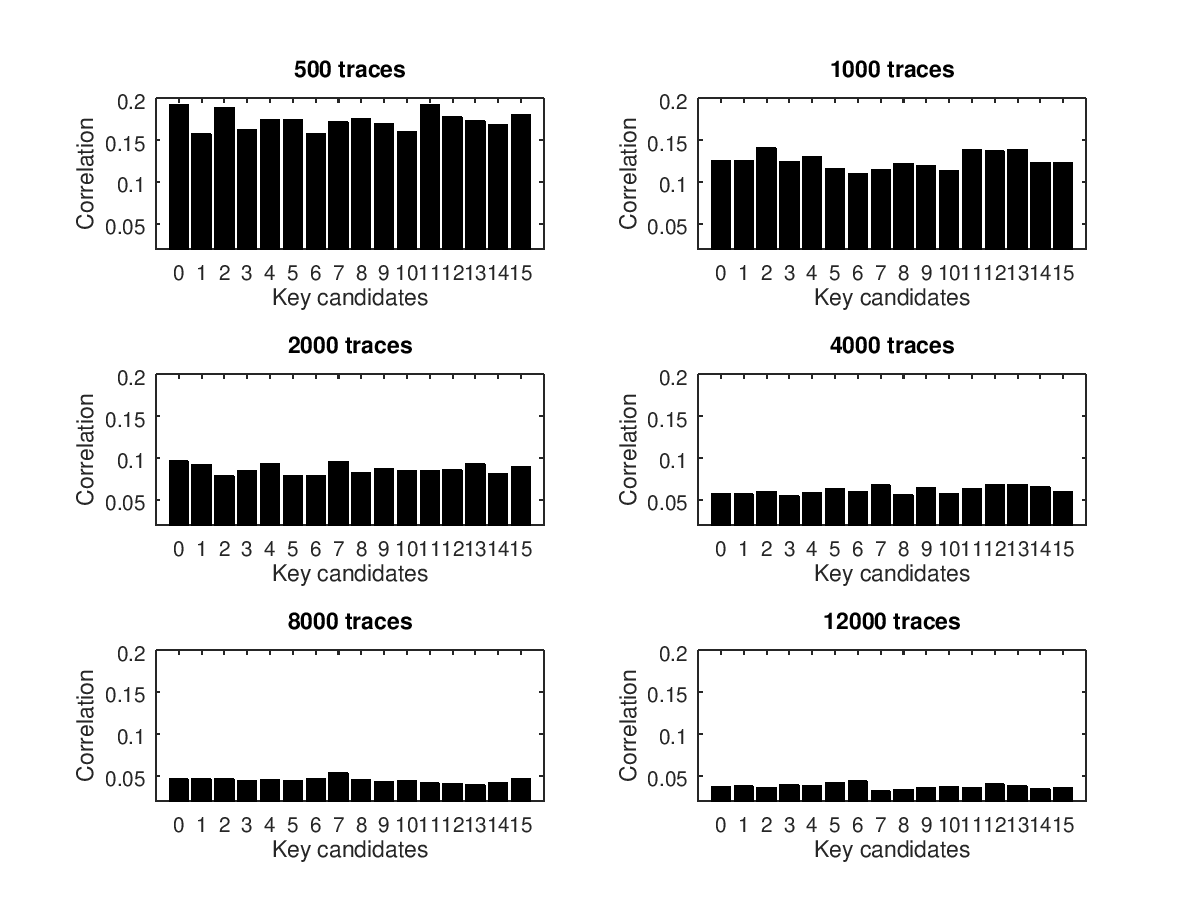
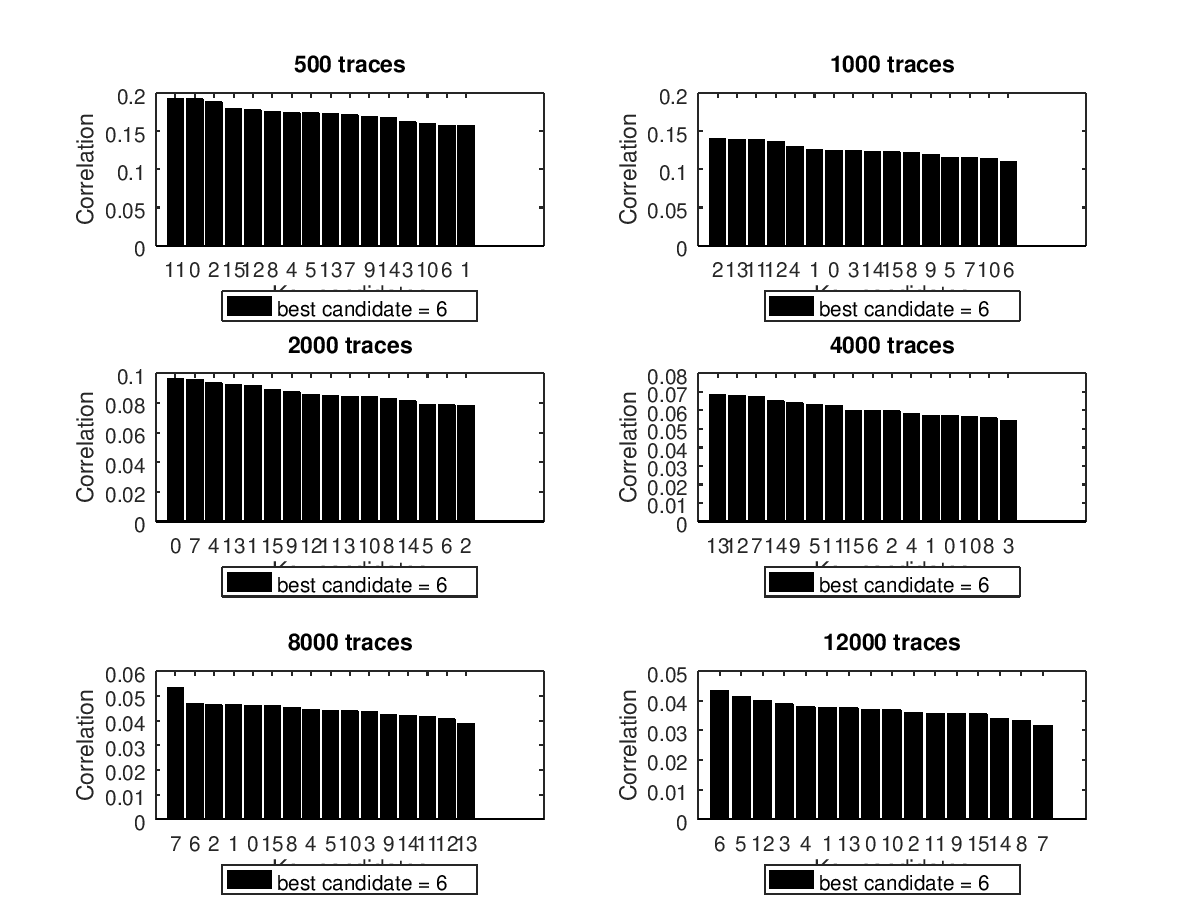
sorting works now

diff --git a/sca_a1/sca_assignment1.m b/sca_a1/sca_assignment1.m
@@ -20,8 +20,10 @@ pow_pred = reshape(sum(dec2bin(y)' == '1'), rows(y), columns(y));
 # step 5
 abs_cw_corr = abs(corr(traces, pow_pred));
 # step 6
-[max_corr key_idx] = max(max(abs_cw_corr));
-result = can_key(key_idx)
+can_key = cast(vertcat(0:15, max(abs_cw_corr))', "single");
+can_key = flipud(sortrows(can_key,2));
+printf "Key candidate with highest "
+correlation = result = can_key(1,1)
 
 # step 7
 figure;
@@ -31,7 +33,7 @@ title("Correlation between measured traces and predicted powerconsumption");
 
 hold on
 for idx = 1:columns(abs_cw_corr)
-  if(idx == key_idx)
+  if(idx == result+1)
     plot(abs_cw_corr(:,idx), 'Color',[1 0 0]);
   else
     plot(abs_cw_corr(:,idx), 'Color',[0 0 0]+0.025*idx);
@@ -41,18 +43,20 @@ hold off
 
 # step 8
 nr_of_traces = [ 500, 1000, 2000, 4000, 8000, 12000];
-labels = can_key;
 
 figure;
 for idx = 1:columns(nr_of_traces)
   subplot(3, 2, idx);
   sub_max_abs_cw_corr = max(abs(corr(traces(1:nr_of_traces(idx),:), pow_pred(1:nr_of_traces(idx),:))));
+  sub_can_key = vertcat(0:15, sub_max_abs_cw_corr)';
+  sub_can_key = flipud(sortrows(sub_can_key,2));
   
-  bar(sub_max_abs_cw_corr, 'facecolor', [0 0 0]);
+  bar(sub_can_key(:,2), 'facecolor', [0 0 0]);
   
-  axis([0, 17, 0.02, 0.2]);
-  set(gca, 'XTick', 1:length(labels));
-  set(gca, 'XTickLabel', labels);
+  l = legend ("best candidate = 6");
+  legend(l, "location", "southoutside");
+  xt = get(gca, 'XTick');
+  set(gca, 'XTick', xt, 'XTickLabel', sub_can_key(:,1));
   xlabel("Key candidates");
   ylabel("Correlation");
   title([num2str(nr_of_traces(idx)) " traces"]);
